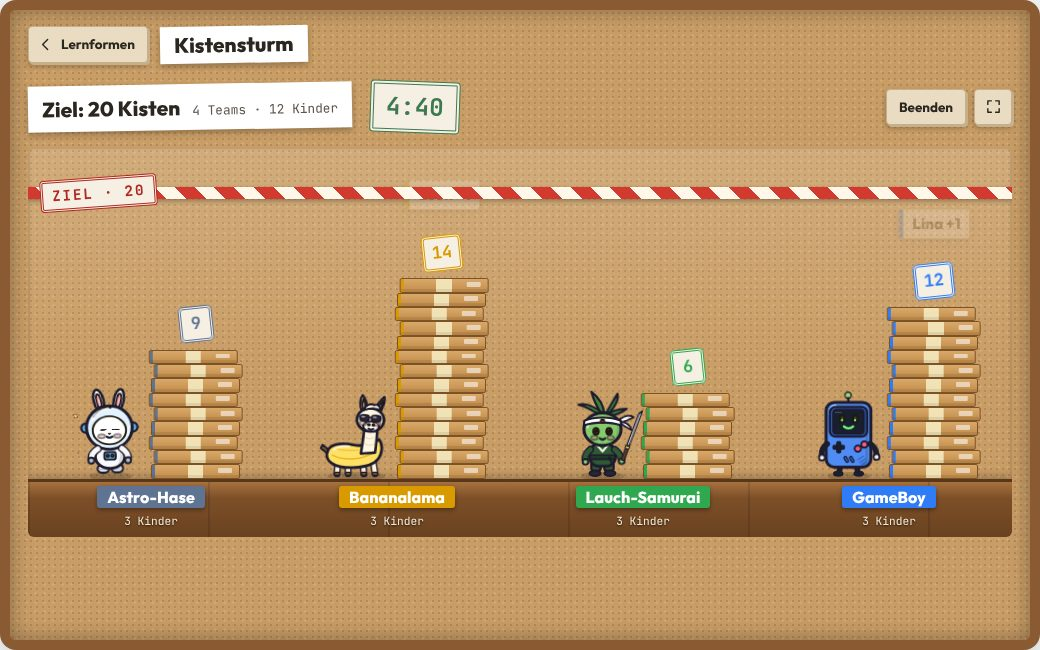
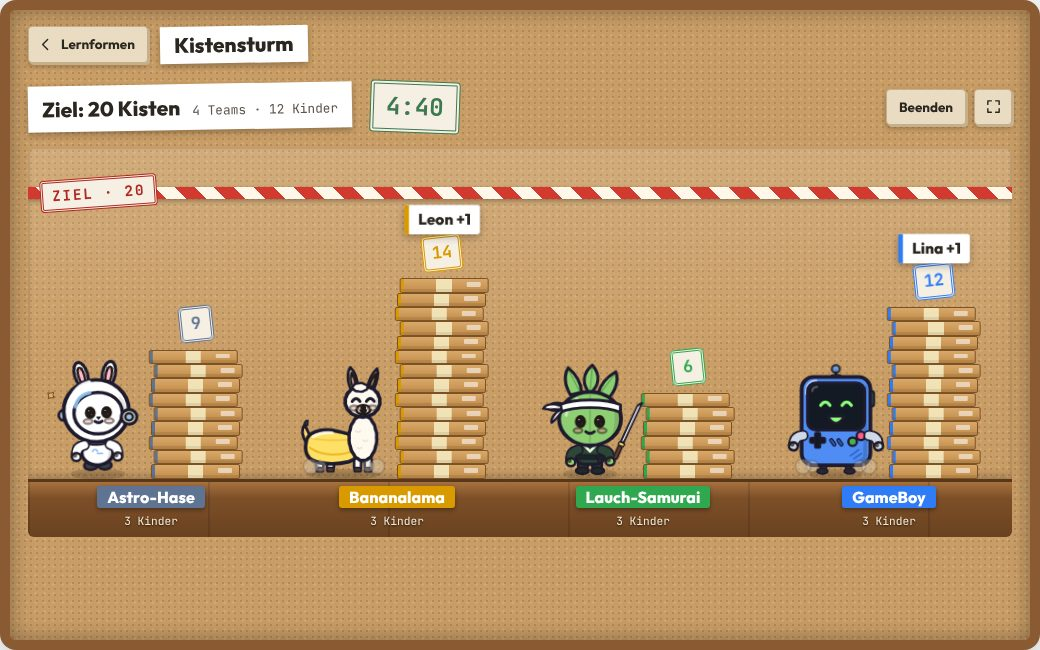
Kistensturm: Teamfiguren im Chibi-Stil überarbeitet
Nach Sönkes Rückmeldung: großer Kopf, kleiner Körper, kurze runde Arme
mit Fäustling für alle. Astro-Hase mit großem Glashelm, Lauch-Samurai
mit großem Blatt-Kopf und drei Blättern, GameBoy mit großem Bildschirm,
Bananalama flauschig ohne Brille (Hals und Brust als Wuschel).
Figuren am Beamer etwas größer, Bildschirmfoto neu, Stempel gedreht.

Claude-Session: https://claude.ai/code/session_01SoWN1mbEitzj7Fp3jj2Eav

diff --git a/MPSkills/tools/DefinitionsDerby/figuren.js b/MPSkills/tools/DefinitionsDerby/figuren.js
@@ -30,7 +30,7 @@
     { key: 'astro', name: 'Astro-Hase', col: '#5f7392', soft: '#e3e9f2',
       say: 'Hüpft durchs All – im Raumanzug, aber die Ohren passen nicht in den Helm.' },
     { key: 'lama', name: 'Bananalama', col: '#d99a00', soft: '#fff3c4',
-      say: 'Halb Lama, halb Banane, immer mit Sonnenbrille – nickt cool zu jeder Kiste.' },
+      say: 'Halb Lama, halb Banane, ganz flauschig – nickt gemütlich zu jeder Kiste.' },
     { key: 'lauch', name: 'Lauch-Samurai', col: '#2fa84f', soft: '#dcf5e2',
       say: 'Kämpft mit Stirnband und Schwert – klein, grün und sehr ehrenhaft.' },
     { key: 'gameboy', name: 'GameBoy', col: '#2f7cf6', soft: '#dbe9ff',
@@ -43,122 +43,142 @@
 
   const D = [];
 
-  /* ── 0 Astro-Hase · Raumanzug, Glashelm, Ohren oben raus ── */
-  const ear = (x, rot) => G('ear-' + (x < 50 ? 'l' : 'r'), [x, 24],
-    '<g transform="rotate(' + rot + ' ' + x + ' 24)">' + E(x, 12, 5.2, 12.5, 'var(--c1)', 2.6) + E(x, 13, 2.4, 8.5, 'var(--c4)', 0) + '</g>');
+  /* Gemeinsame Teile im Chibi-Stil (Sönke: „Kopf größer, Arme besser“):
+     großer Kopf, kleiner Körper, kurze runde Arme mit Fäustling. */
+  const mitt = (x, y, col, w) => E(x, y, 3.8, 3.4, col, w === undefined ? 2.2 : w) + hl(x - 1.2, y - 1.2, 0.9, 0.7);
+  const arm = (side, x0, y0, col, hand) => {
+    const s = side === 'l' ? -1 : 1;
+    const x1 = x0 + s * 6, y1 = y0 + 9;
+    return tube('M ' + x0 + ' ' + y0 + ' Q ' + (x0 + s * 7) + ' ' + (y0 + 2) + ' ' + x1 + ' ' + y1, col, 6.5) + mitt(x1, y1 + 1.5, hand || col);
+  };
+  /* Wuschelrand: Ellipse mit kleinen Bögen nach außen (Lama-Fell) */
+  function fluff(cx, cy, rx, ry, n, k) {
+    let d = '';
+    for (let i = 0; i <= n; i++) {
+      const a = i / n * Math.PI * 2, x = cx + rx * Math.cos(a), y = cy + ry * Math.sin(a);
+      if (!i) { d = 'M ' + x.toFixed(1) + ' ' + y.toFixed(1); continue; }
+      const m = (i - 0.5) / n * Math.PI * 2;
+      d += ' Q ' + (cx + rx * (1 + k) * Math.cos(m)).toFixed(1) + ' ' + (cy + ry * (1 + k) * Math.sin(m)).toFixed(1) + ' ' + x.toFixed(1) + ' ' + y.toFixed(1);
+    }
+    return d + ' Z';
+  }
+
+  /* ── 0 Astro-Hase · großer Glashelm als Kopf, Ohren oben raus ── */
+  const ear = (x, rot) => G('ear-' + (x < 50 ? 'l' : 'r'), [x, 20],
+    '<g transform="rotate(' + rot + ' ' + x + ' 20)">' + E(x, 9, 5.4, 11, 'var(--c1)', 2.6) + E(x, 10, 2.5, 7.5, 'var(--c4)', 0) + '</g>');
   D[0] = {
-    pal: [['#f8f9fc', '#b3bfd1', '#5aa9e6', '#ffb8cf', '#e3f2ff']],
-    o: { al: [37, 66], ar: [63, 66], ll: [43, 84], lr: [57, 84], head: [50, 64] },
-    legL: R(36.5, 83, 12, 8.5, 4, 'var(--c1)', 2.4) + L('M 38 88 L 47 88', 'var(--c2)', 1.6),
-    legR: R(51.5, 83, 12, 8.5, 4, 'var(--c1)', 2.4) + L('M 53 88 L 62 88', 'var(--c2)', 1.6),
-    body: E(50, 74, 15.5, 13, 'var(--c1)', 3)
-      + R(44, 69, 12, 8.5, 2.5, 'var(--c3)', 2) + C(47.5, 73.2, 1.3, '#fff', 0) + C(52.5, 73.2, 1.3, '#ffd84a', 0)
-      + shade('M 62 66 C 66 72 65 80 58 85 C 61 79 62 72 62 66 Z'),
-    head: ear(42, -12) + ear(58, 12)
-      + C(25.5, 42, 5, 'var(--c3)', 2.4) + C(74.5, 42, 5, 'var(--c3)', 2.4)
-      + C(50, 42, 24, 'var(--c5)', 3.2)
-      + E(50, 45, 17.5, 15.5, '#ffffff', 0)
-      + P('M 34 30 C 38 23 45 20 52 20', 'none', 0) + shine('M 33 33 C 36 26 42 22 49 21', 2.8, 0.8)
-      + shine('M 69 50 C 70 47 70.5 44 70.5 41', 2, 0.6)
+    pal: [['#ffffff', '#c3ccda', '#8fc3ef', '#ffb8cf', '#3a3f4b']],
+    o: { al: [39, 71], ar: [61, 71], ll: [44, 85], lr: [56, 85], head: [50, 66] },
+    legL: E(44, 88.5, 5.6, 3.6, 'var(--c5)', 2.2),
+    legR: E(56, 88.5, 5.6, 3.6, 'var(--c5)', 2.2),
+    body: E(50, 77, 13, 11, 'var(--c1)', 3)
+      + E(50, 67, 10, 3.2, 'var(--c2)', 2)
+      + L('M 46 76 C 47 74 49 74 50 76 M 50 78 L 54 78', 'var(--c3)', 1.6)
+      + shade('M 60 71 C 64 76 63 83 57 87 C 60 82 61 76 60 71 Z'),
+    head: ear(41, -14) + ear(59, 12)
+      + C(23.5, 44, 4.6, 'var(--c2)', 2.4)
+      + C(50, 41, 27, 'var(--c1)', 3.2)
+      + E(51.5, 43, 20, 18, '#ffffff', 2.8)
+      + L('M 33 37 C 34 30 39 26 45 25', 'var(--c3)', 3, 'opacity=".9"')
+      + shade('M 70 30 C 76 38 77 50 71 59 C 74 50 74 39 70 30 Z', 0.1)
+      + shine('M 29 30 C 32 22 38 17 45 15.5', 2.6, 0.9)
+      + C(77, 47, 6.4, 'var(--c1)', 2.6) + C(77, 47, 3.2, 'var(--c3)', 0)
       + '{FACE}',
-    face: { lx: 43.5, rx: 56.5, y: 44.5, r: 4, my: 52, mw: 2.8, bcol: '#ff8fb3',
-      extra: P('M 48.6 48.4 L 51.4 48.4 L 50 50 Z', '#ff8fb3', 1) },
-    back: C(50, 44, 9, 'var(--c2)', 0, 'opacity=".25"'),
-    armL: tube('M 37 66 Q 30 71 31 78', 'var(--c1)', 5.5) + C(31, 79, 3.2, 'var(--c2)', 2),
-    armR: tube('M 63 66 Q 70 71 69 78', 'var(--c1)', 5.5) + C(69, 79, 3.2, 'var(--c2)', 2),
-    fx: tw(14, 30, 3.4, '#ffd84a', 0) + tw(86, 58, 2.6, '#c084fc', 0.7) + tw(16, 70, 2.2, '#5aa9e6', 1.2),
+    face: { lx: 45, rx: 58.5, y: 42.5, r: 4.4, my: 50, mx: 51.7, mw: 3, bcol: '#ff9fbf',
+      extra: P('M 50.3 46.6 L 53.1 46.6 L 51.7 48.2 Z', '#ff8fb3', 1) },
+    back: C(50, 44, 10, 'var(--c2)', 0, 'opacity=".25"'),
+    armL: arm('l', 39, 71, 'var(--c1)'),
+    armR: arm('r', 61, 71, 'var(--c1)'),
+    fx: tw(12, 28, 3.4, '#ffb347', 0) + tw(90, 64, 2.6, '#c084fc', 0.7) + tw(13, 66, 2.2, '#5aa9e6', 1.2),
     vars: '--fx:var(--c3)'
   };
 
-  /* ── 1 Bananalama · Bananen-Körper, Lama-Kopf, Sonnenbrille ── */
+  /* ── 1 Bananalama · flauschiges Lama, die Banane als Körper ── */
   D[1] = {
-    pal: [['#ffe066', '#e0a800', '#fff6e2', '#7a5a2a', '#2a2433']],
-    o: { al: [40, 70], ar: [60, 70], ll: [36, 82], lr: [62, 82], head: [64, 48], zz: [84, 16] },
-    behind: G('tail', [18, 66], P('M 20 64 L 12 60 L 11 64 L 19 68 Z', 'var(--c4)', 2)),
-    legL: tube('M 30 79 L 29 90', 'var(--c3)', 4.5) + tube('M 41 81 L 41 90', 'var(--c3)', 4.5)
-      + R(26.5, 88.5, 5.5, 3.2, 1.2, 'var(--c4)', 1.4) + R(38.3, 88.5, 5.5, 3.2, 1.2, 'var(--c4)', 1.4),
-    legR: tube('M 57 80 L 58 90', 'var(--c3)', 4.5) + tube('M 68 77 L 70 90', 'var(--c3)', 4.5)
-      + R(55.2, 88.5, 5.5, 3.2, 1.2, 'var(--c4)', 1.4) + R(67.3, 88.5, 5.5, 3.2, 1.2, 'var(--c4)', 1.4),
-    body: P('M 19 66 C 21 58 33 56 47 59 C 58 61 67 58 74 53 C 79 59 78 72 69 78 C 57 85 33 85 24 79 C 19 76 17 71 19 66 Z', 'var(--c1)', 3)
-      + L('M 24 70 C 36 76 56 76 70 66', 'var(--c2)', 1.6, 'opacity=".7"')
-      + L('M 27 63 C 38 66 54 66 66 61', 'var(--c2)', 1.3, 'opacity=".5"')
-      + shine('M 26 64 C 30 61 36 60 42 60.5', 2.4, 0.7),
-    head: P('M 56 68 C 57 58 58 48 58 38 L 72 38 C 72 48 72 58 71 66 Z', 'var(--c3)', 2.8)
-      + L('M 60 50 C 62 52 66 52 68 50 M 60 57 C 62 59 66 59 69 57', '#e8dcc4', 1.4)
-      + G('ear-l', [57, 22], P('M 55 24 C 51 17 51 9 54 5 C 58 9 60 16 60 22 Z', 'var(--c3)', 2.4) + P('M 55.5 20 C 54 15 54 11 55 9 C 57 12 58 16 58 20 Z', '#ffc7d4', 0))
-      + G('ear-r', [71, 22], P('M 68 22 C 69 15 72 9 76 5 C 78 10 76 17 73 24 Z', 'var(--c3)', 2.4) + P('M 70 20 C 71 15 73 12 75 9 C 75.5 13 74 17 72 21 Z', '#ffc7d4', 0))
-      + E(64, 31, 14.5, 12.5, 'var(--c3)', 3)
-      + P('M 56 21 C 58 15 63 13 67 15 C 70 13 74 16 74 20 C 69 18 62 18 56 21 Z', 'var(--c3)', 2.2)
-      + shade('M 75 27 C 79 33 77 40 71 43 C 74 38 76 33 75 27 Z')
-      + E(65, 38, 8.5, 5.5, '#fffaf0', 2.2)
-      + E(62.6, 36.4, 1.1, .9, 'var(--c5)', 0) + E(67.4, 36.4, 1.1, .9, 'var(--c5)', 0)
+    pal: [['#ffe066', '#e3ab14', '#fffaf0', '#4a3a2a', '#efe4cf']],
+    o: { al: [60, 66], ar: [72, 66], ll: [32, 82], lr: [64, 82], head: [64, 66], zz: [86, 12] },
+    behind: G('tail', [17, 64], P('M 19 66 C 14 62 12 56 14 51 C 17 55 19 58 22 61 Z', 'var(--c1)', 2.4)
+      + P('M 14 51 C 13 49 14 47 16 47 L 16.5 51 Z', 'var(--c4)', 1.4)),
+    legL: R(26.5, 78, 6, 11, 2.8, 'var(--c3)', 2.2) + R(35.5, 79, 6, 10, 2.8, 'var(--c3)', 2.2)
+      + R(26.5, 87, 6, 3.6, 1.4, 'var(--c4)', 1.4) + R(35.5, 87, 6, 3.6, 1.4, 'var(--c4)', 1.4),
+    legR: R(58.5, 78, 6, 11, 2.8, 'var(--c3)', 2.2) + R(67.5, 78, 6, 11, 2.8, 'var(--c3)', 2.2)
+      + R(58.5, 87, 6, 3.6, 1.4, 'var(--c4)', 1.4) + R(67.5, 87, 6, 3.6, 1.4, 'var(--c4)', 1.4),
+    body: P('M 18 66 C 18 57 30 53 44 56 C 52 58 58 59 62 62 C 66 70 63 79 54 82 C 42 85 26 84 21 79 C 18 76 17 71 18 66 Z', 'var(--c1)', 3)
+      + L('M 21 70 C 31 77 47 78 59 72', 'var(--c2)', 1.8, 'opacity=".7"')
+      + L('M 23 62 C 32 64 44 64 55 63', 'var(--c2)', 1.4, 'opacity=".45"')
+      + shine('M 24 61 C 28 58 34 57 40 57.5', 2.6, 0.75),
+    head: P(fluff(66, 62, 11.5, 19, 16, 0.07), 'var(--c3)', 2.8)
+      + L('M 60 56 Q 62 58 64 56 M 66 64 Q 68 66 70 64 M 61 70 Q 63 72 65 70', 'var(--c5)', 1.3)
+      + G('ear-l', [59, 20], P('M 57 22 C 53 15 53 6 56 2 C 60 6 62 13 62 20 Z', 'var(--c3)', 2.4) + P('M 57.4 18 C 56 13 56 9 57 6.5 C 59 10 60 14 60 18 Z', '#ffc7d4', 0))
+      + G('ear-r', [72, 20], P('M 70 20 C 71 13 74 7 78 3 C 80 8 78 15 75 22 Z', 'var(--c3)', 2.4) + P('M 72 18 C 73 13 75 10 77 7.5 C 77.5 11 76 15 74 19 Z', '#ffc7d4', 0))
+      + P(fluff(66, 31, 14.5, 13, 18, 0.06), 'var(--c3)', 3)
+      + P(fluff(64, 19, 6, 3.5, 7, 0.25), 'var(--c3)', 2)
+      + shade('M 78 26 C 82 32 80 40 73 44 C 77 38 79 32 78 26 Z', 0.1)
+      + E(66.5, 38, 6, 4, '#fff4dc', 0)
       + '{FACE}',
-    headTop: R(52.5, 26, 10, 6.6, 2.8, 'var(--c5)', 1.6) + R(65, 26, 10, 6.6, 2.8, 'var(--c5)', 1.6)
-      + L('M 62.5 28.5 L 65 28.5 M 52.5 28 L 50.5 27', 'var(--c5)', 1.8)
-      + L('M 54.5 28 L 57.5 28', '#ffffff', 1.2, 'opacity=".75"') + L('M 67 28 L 70 28', '#ffffff', 1.2, 'opacity=".75"'),
-    face: { lx: 57.5, rx: 70, y: 29.3, r: 2.8, my: 40.6, mx: 65, mw: 2.6, bcol: '#ff9fb0' },
-    back: E(64, 29, 6, 4, 'var(--c2)', 0, 'opacity=".3"'),
+    face: { lx: 60.5, rx: 72.5, y: 30, r: 3.6, my: 39.3, mx: 66.5, mw: 2.2, bcol: '#ffb0c2',
+      extra: E(66.5, 36.4, 1.5, 1.05, 'var(--c4)', 0) },
+    back: E(66, 31, 6, 4, 'var(--c5)', 0, 'opacity=".6"'),
     armL: '', armR: '',
     shadow: 30,
     vars: '--fx:var(--c2)'
   };
 
-  /* ── 2 Lauch-Samurai · Lauch-Kopf mit Blättern, Stirnband, Schwert ── */
+  /* ── 2 Lauch-Samurai · großer Blatt-Kopf, drei Blätter, Stirnband, Schwert ── */
+  const leaf = (d, vein) => P(d, 'var(--c1)', 2.6) + L(vein, 'var(--c2)', 1.2, 'opacity=".55"');
   D[2] = {
-    pal: [['#86c96e', '#3f8b3c', '#ffffff', '#2f5a35', '#d5dde6', '#6b3f22']],
-    o: { al: [37, 64], ar: [63, 64], ll: [43, 82], lr: [57, 82], head: [50, 60] },
-    legL: R(38, 78, 10, 9, 3, 'var(--c4)', 2.4) + E(42, 89.5, 6, 3, '#2a2433', 2),
-    legR: R(52, 78, 10, 9, 3, 'var(--c4)', 2.4) + E(58, 89.5, 6, 3, '#2a2433', 2),
-    body: R(36, 58, 28, 24, 10, 'var(--c4)', 3)
-      + P('M 44 58 L 50 66 L 56 58', 'none', 0) + L('M 44 59 L 50 66 L 56 59', '#e9f5d8', 2.4)
-      + R(36.5, 70, 27, 4.5, 1.5, '#1f3b24', 1.6) + P('M 56 72 L 60 79 L 58 72 Z', '#1f3b24', 1.2),
-    head: G('leaves', [50, 26],
-        P('M 50 28 C 44 18 40 10 38 2 C 46 8 51 16 52 26 Z', 'var(--c2)', 2.4)
-      + P('M 48 28 C 40 22 32 18 24 16 C 32 14 42 18 50 25 Z', 'var(--c2)', 2.4)
-      + P('M 52 28 C 58 18 62 10 66 4 C 68 12 62 20 54 28 Z', 'var(--c2)', 2.4)
-      + P('M 52 28 C 60 22 68 20 76 20 C 70 25 60 28 53 30 Z', 'var(--c2)', 2.4)
-      + L('M 44 13 L 50 25 M 60 12 L 53 25', '#2a6a2c', 1, 'opacity=".5"'))
-      + E(50, 42, 20, 17.5, 'var(--c1)', 3.2)
-      + shade('M 66 34 C 72 42 70 52 61 58 C 66 51 68 43 66 34 Z')
-      + L('M 41 52 L 41 57 M 50 53 L 50 58 M 59 52 L 59 57', '#5aa04a', 1.2, 'opacity=".5"')
-      + shine('M 34 40 C 35 35 38 31 42 29.5', 2.4, 0.55)
-      + G('band', [70, 33], P('M 69 31 C 76 28 82 29 84 32 C 80 33 76 34 70 35 Z', 'var(--c3)', 2)
-        + P('M 69 34 C 75 36 79 40 79 45 C 75 42 72 39 69 36 Z', 'var(--c3)', 2))
-      + P('M 30.5 33 C 42 28.5 58 28.5 69.5 33 L 70 38 C 58 34 42 34 30 38 Z', 'var(--c3)', 2.2)
-      + C(50, 33.5, 1.8, '#e5484d', 0)
+    pal: [['#8fcf74', '#3f8b3c', '#ffffff', '#2c4637', '#d5dde6', '#6b3f22']],
+    o: { al: [40, 72], ar: [60, 72], ll: [44, 85], lr: [56, 85], head: [50, 68] },
+    legL: R(40, 81, 8, 7, 2.5, 'var(--c4)', 2.2) + E(43.5, 89.6, 5.4, 2.8, '#1f2a24', 2),
+    legR: R(52, 81, 8, 7, 2.5, 'var(--c4)', 2.2) + E(56.5, 89.6, 5.4, 2.8, '#1f2a24', 2),
+    body: R(38, 67, 24, 17, 7, 'var(--c4)', 3)
+      + L('M 45 67.5 L 50 73 L 55 67.5', '#e9f5d8', 2.2)
+      + R(38.5, 76, 23, 3.6, 1.4, '#1a2a20', 1.4) + P('M 55 78 L 58 84 L 56.5 78 Z', '#1a2a20', 1),
+    head: G('leaves',  [50, 22],
+        leaf('M 34 26 C 28 18 27 9 30 3 C 37 8 42 15 43 23 Z', 'M 31 6 C 35 12 38 17 41 22')
+      + leaf('M 66 26 C 72 18 73 9 70 3 C 63 8 58 15 57 23 Z', 'M 69 6 C 65 12 62 17 59 22')
+      + leaf('M 50 24 C 43 16 42 7 50 -1 C 58 7 57 16 50 24 Z', 'M 50 1 L 50 22'))
+      + leaf('M 29 33 C 22 30 17 32 15 36 C 20 39 26 38 29 36 Z', 'M 17 36 L 28 34.5')
+      + E(50, 45, 26, 23, 'var(--c1)', 3.2)
+      + L('M 50 24 C 50 36 50 52 50 66', 'var(--c2)', 1.4, 'opacity=".35"')
+      + shade('M 70 33 C 78 42 77 56 66 64 C 72 56 73 44 70 33 Z')
+      + shine('M 30 42 C 31 36 34 31 39 28', 2.6, 0.55)
+      + P('M 24.5 33 C 37 27.5 63 27.5 75.5 33 L 75.5 39.5 C 63 34 37 34 24.5 39.5 Z', 'var(--c3)', 2.4)
+      + G('band', [26, 36], P('M 26 34 C 19 30 13 31 11 34 C 16 36 21 36 26 37 Z', 'var(--c3)', 2)
+        + P('M 26 37 C 20 39 16 43 16 47 C 20 45 23 42 26 39 Z', 'var(--c3)', 2))
       + '{FACE}',
-    face: { lx: 43, rx: 57, y: 44.5, r: 3.8, my: 52, mw: 2.8 },
-    back: L('M 42 44 L 58 44', '#5aa04a', 1.4, 'opacity=".5"'),
-    armL: tube('M 37 64 Q 30 69 31 76', 'var(--c4)', 5) + C(31, 77, 3, 'var(--c1)', 2),
-    armR: tube('M 63 64 Q 69 69 70 76', 'var(--c4)', 5) + C(70, 77, 3, 'var(--c1)', 2),
-    front: '<g class="katana" transform="rotate(20 71 78)">' + R(68.6, 59, 4.4, 3.6, 1, '#ffd84a', 1.2)
-        + P('M 69.6 59 L 70.2 22 L 72.6 18.5 L 72 59 Z', 'var(--c5)', 1.6) + L('M 71.1 56 L 71.4 23', '#ffffff', 0.8, 'opacity=".8"')
-        + R(69.2, 62.4, 3.2, 13, 1.2, 'var(--c6)', 1.4) + '</g>',
+    face: { lx: 42, rx: 58, y: 47.5, r: 4.6, my: 56, mw: 3.6 },
+    back: L('M 38 47 L 62 47', 'var(--c2)', 1.4, 'opacity=".4"'),
+    armL: arm('l', 40, 72, 'var(--c4)', 'var(--c1)'),
+    armR: arm('r', 60, 72, 'var(--c4)', 'var(--c1)'),
+    front: '<g class="katana" transform="rotate(24 70 82)">' + R(67.6, 64, 4.8, 3.6, 1, '#ffd84a', 1.2)
+        + P('M 68.6 64 L 69.2 30 L 71.8 26.5 L 71.2 64 Z', 'var(--c5)', 1.6) + L('M 70.1 61 L 70.4 31', '#ffffff', 0.8, 'opacity=".8"')
+        + R(68.2, 67.4, 3.4, 12, 1.2, 'var(--c6)', 1.4) + '</g>',
     vars: '--fx:var(--c1)'
   };
 
-  /* ── 3 GameBoy · Spielkonsole mit Bildschirm-Gesicht ── */
+  /* ── 3 GameBoy · große Konsole, großer Bildschirm mit Gesicht ── */
   D[3] = {
-    pal: [['#4f8df5', '#2a5bb8', '#ffd84a', '#7dff8a', '#ff5c8a', '#18202e']],
-    o: { al: [27, 58], ar: [73, 58], ll: [41, 84], lr: [59, 84], head: [50, 84] },
-    legL: tube('M 41 82 L 40 89', 'var(--c6)', 3.2) + E(39, 90, 5, 2.6, 'var(--c6)', 1.4),
-    legR: tube('M 59 82 L 60 89', 'var(--c6)', 3.2) + E(61, 90, 5, 2.6, 'var(--c6)', 1.4),
-    head: G('antenna', [50, 14], L('M 50 15 L 50 7', INK, 2.4) + C(50, 5.5, 3.4, 'var(--c4)', 2, 'class="glow"'))
-      + R(26, 13, 48, 70, 9, 'var(--c1)', 3.2)
-      + shade('M 70 20 L 70 74 C 70 78 68 80 64 80 L 68 77 C 69 76 69 74 69 72 Z', 0.18)
-      + shine('M 30 26 C 30 20 32 17 36 16.5', 2.4, 0.6)
-      + R(30, 18, 40, 32, 6, 'var(--c2)', 2.4)
-      + R(33.5, 21, 33, 26, 3.5, 'var(--c6)', 2)
-      + L('M 36 24 L 42 24', '#ffffff', 1.4, 'opacity=".2"')
-      + R(33.5, 59.5, 12, 4, 1.2, 'var(--c6)', 1.4) + R(37.5, 55.5, 4, 12, 1.2, 'var(--c6)', 1.4)
-      + C(60, 63, 3.4, 'var(--c5)', 2) + C(67, 58.5, 3.4, 'var(--c5)', 2)
-      + R(46, 71, 3, 7, 1.5, 'var(--c2)', 1.2, 'transform="rotate(-30 47.5 74.5)"') + R(52, 71, 3, 7, 1.5, 'var(--c2)', 1.2, 'transform="rotate(-30 53.5 74.5)"')
-      + L('M 60 75 L 66 71 M 62 78 L 68 74 M 64 81 L 69 77', 'var(--c2)', 1.4, 'opacity=".8"')
+    pal: [['#4f8df5', '#2a5bb8', '#ffd84a', '#8dff7a', '#ff5c8a', '#141a24', '#cfd9e8']],
+    o: { al: [22, 60], ar: [78, 60], ll: [40, 84], lr: [60, 84], head: [50, 84] },
+    legL: tube('M 40 83 L 39 89', '#4a3a2a', 3.6) + E(38.5, 90, 4.6, 2.4, '#2a2433', 1.4),
+    legR: tube('M 60 83 L 61 89', '#4a3a2a', 3.6) + E(61.5, 90, 4.6, 2.4, '#2a2433', 1.4),
+    head: G('antenna', [50, 9], L('M 50 10 L 50 4', INK, 2.4) + C(50, 3.2, 3.2, '#5aa9ff', 2, 'class="glow"') + R(46, 8.5, 8, 3, 1.2, '#4caf50', 1.4))
+      + R(77, 22, 5, 13, 2, '#4caf50', 2)
+      + R(21, 10, 58, 75, 10, 'var(--c1)', 3.2)
+      + shade('M 75 18 L 75 76 C 75 80 72 83 68 83 L 73 79 C 74 78 74 76 74 74 Z', 0.18)
+      + shine('M 25 24 C 25 17 28 14 33 13.5', 2.6, 0.6)
+      + R(26, 15, 48, 40, 7, 'var(--c6)', 2.6)
+      + shine('M 30 22 C 30 19.5 31 18.5 34 18.3', 1.8, 0.25)
+      + R(28, 61.5, 13, 4.6, 1.4, 'var(--c6)', 1.4) + R(32.2, 57.3, 4.6, 13, 1.4, 'var(--c6)', 1.4)
+      + C(64, 65, 3.6, '#4caf50', 2) + C(71, 60, 3.6, 'var(--c5)', 2)
+      + R(46, 62, 2.6, 7, 1.3, 'var(--c2)', 1, 'transform="rotate(-35 47.3 65.5)"') + R(52, 62, 2.6, 7, 1.3, 'var(--c2)', 1, 'transform="rotate(-35 53.3 65.5)"')
+      + L('M 62 77 L 69 72 M 65 79.5 L 71.5 75', 'var(--c2)', 1.4, 'opacity=".8"')
       + '{FACE}',
-    face: { type: 'screen', col: 'var(--c4)', lx: 43, rx: 57, y: 31, r: 3.4, my: 39, mw: 5, blush: false },
-    back: R(32, 22, 36, 50, 5, 'var(--c2)', 2) + C(50, 46, 7, 'var(--c1)', 1.6),
-    armL: tube('M 27 58 Q 20 63 21 71', 'var(--c6)', 3.2) + C(21, 72.5, 3.2, '#f1f3f7', 2),
-    armR: tube('M 73 58 Q 80 63 79 71', 'var(--c6)', 3.2) + C(79, 72.5, 3.2, '#f1f3f7', 2),
+    face: { type: 'screen', col: 'var(--c4)', lx: 41, rx: 59, y: 33, r: 4.4, my: 44, mw: 7, blush: false },
+    back: R(30, 20, 40, 52, 5, 'var(--c2)', 2) + C(50, 46, 8, 'var(--c1)', 1.6),
+    armL: arm('l', 22, 60, 'var(--c7)'),
+    armR: arm('r', 78, 60, 'var(--c7)'),
     vars: '--fx:var(--c4)'
   };
 
@@ -183,8 +203,8 @@
       + L('M 38 53 L 42 53', '#ffffff', 1.2, 'opacity=".7"') + L('M 53.5 53 L 57.5 53', '#ffffff', 1.2, 'opacity=".7"'),
     face: { lx: 42.2, rx: 57.8, y: 55.3, r: 3.6, my: 67, mw: 4.5, bcol: '#ff7a8a' },
     back: L('M 40 60 L 60 60', 'var(--c1)', 2, 'opacity=".4"'),
-    armL: tube('M 31 62 Q 24 66 25 73', INK, 2.6) + C(25, 74.5, 3, '#ffffff', 2),
-    armR: tube('M 69 62 Q 76 66 75 73', INK, 2.6) + C(75, 74.5, 3, '#ffffff', 2),
+    armL: tube('M 31 62 Q 25 65 25 71', INK, 2.8) + mitt(24.8, 73.5, '#ffffff'),
+    armR: tube('M 69 62 Q 75 65 75 71', INK, 2.8) + mitt(75.2, 73.5, '#ffffff'),
     fx: G('fly', null, puff(17, 26, 3.2) + puff(84, 18, 2.8)),
     vars: '--fx:var(--c4)'
   };
@@ -204,8 +224,8 @@
       + '{FACE}',
     face: { lx: 43, rx: 57, y: 52, r: 4, my: 60, mw: 3, bcol: '#ff9fc6' },
     back: E(50, 58, 10, 8, 'var(--c6)', 0, 'opacity=".35"'),
-    armL: P('M 28 60 C 21 62 19 68 22 71 C 25 69 27 66 29 66 Z', 'var(--c1)', 2.4),
-    armR: P(mirror('M 28 60 C 21 62 19 68 22 71 C 25 69 27 66 29 66 Z'), 'var(--c1)', 2.4),
+    armL: P('M 28 59 C 20 60 17 67 21 71 C 24 73 27 69 29 66 Z', 'var(--c1)', 2.4),
+    armR: P(mirror('M 28 59 C 20 60 17 67 21 71 C 24 73 27 69 29 66 Z'), 'var(--c1)', 2.4),
     front: G('staff', [80, 70], L('M 78 80 L 86 38', INK, 4.6) + L('M 78 80 L 86 38', 'var(--c5)', 2.6)
         + C(86.5, 35.5, 5.4, 'var(--c4)', 2.2, 'class="glow"') + hl(85, 34, 1.6, 0.9)),
     fx: tw(16, 40, 3, '#ffd84a', 0) + tw(88, 58, 2.4, '#c084fc', 0.6) + tw(20, 74, 2, '#5aa9ff', 1.1),

diff --git a/MPSkills/tools/DefinitionsDerby/tool.js b/MPSkills/tools/DefinitionsDerby/tool.js
@@ -74,7 +74,7 @@
 (function () {
   'use strict';
 
-  const V = '20261029l';
+  const V = '20261029m';
   const BASE = 'tools/DefinitionsDerby/';
   const MAX_SHARED = 20;          // data.shared muss in 8 KB passen
   const LEVELS = ['neu', 'unsicher', 'teilweise', 'sicher'];
@@ -3977,7 +3977,7 @@
     const bh = Math.max(3, Math.min(42, (h - 46) / st.v.goal));
     sc.style.setProperty('--bh', bh.toFixed(2) + 'px');
     sc.style.setProperty('--bw', Math.round(Math.min(130, w * 0.46, bh * 3.4 + 40)) + 'px');
-    sc.style.setProperty('--fw', Math.round(Math.max(56, Math.min(130, w * 0.46, h * 0.28))) + 'px');
+    sc.style.setProperty('--fw', Math.round(Math.max(64, Math.min(150, w * 0.5, h * 0.36))) + 'px');
     sc.classList.toggle('is-thin', bh < 12);
     const gl = sc.querySelector('#ddStGoalLine');
     if (gl) gl.style.bottom = 'calc(var(--floor) + ' + (st.v.goal * bh).toFixed(1) + 'px)';

diff --git a/MPSkills/tools/DefinitionsDerby/figuren.css b/MPSkills/tools/DefinitionsDerby/figuren.css
@@ -62,7 +62,7 @@
 .ds-fig--lama .tail { animation: ds-wag 1.4s ease-in-out infinite; }
 .ds-lift.ds-fig--lama .head-node { animation: ds-lama-lift .9s cubic-bezier(.3, .7, .3, 1) both; }
 @keyframes ds-nod { 50% { transform: rotate(4deg) translateY(1px); } }
-@keyframes ds-lama-lift { 22% { transform: translateY(3px); } 48%, 74% { transform: translateY(-5px) rotate(-6deg); } }
+@keyframes ds-lama-lift { 22% { transform: translateY(2px); } 48%, 74% { transform: translateY(-2px) rotate(-5deg); } }
 
 /* Lauch-Samurai: Blätter wehen, das Stirnband flattert, das Schwert blitzt. */
 .ds-fig--lauch .leaves { animation: ds-leaf 2.6s ease-in-out infinite; }

diff --git a/MPSkills/lib/preview.js b/MPSkills/lib/preview.js
@@ -415,7 +415,7 @@
     if (window.MPTool) return Promise.resolve();
     return new Promise((resolve, reject) => {
       const s = document.createElement('script');
-      s.src = 'lib/tool.js?v=20261029l';
+      s.src = 'lib/tool.js?v=20261029m';
       s.onload  = () => window.MPTool ? resolve() : reject(new Error('MPTool fehlt'));
       s.onerror = () => reject(new Error('lib/tool.js nicht gefunden'));
       document.head.appendChild(s);

diff --git a/MPSkills/lib/tool.js b/MPSkills/lib/tool.js
@@ -105,7 +105,7 @@
        neue Reliefkarte von Wordisland unter — der Umbau war fertig,
        auf dem Bildschirm stand die alte Karte, und es sah aus, als
        wäre nichts geschehen. */
-    const v = '?v=20261029l';
+    const v = '?v=20261029m';
 
     loading[id] = new Promise((resolve, reject) => {
       // Das Stylesheet wird nicht abgewartet: ein Werkzeug, das auf

diff --git a/MPSkills/j.html b/MPSkills/j.html
@@ -77,7 +77,7 @@
      dazuholen" raus ist. Die Tür gehört der Tafel. -->
 <script src="lib/room.js?v=20261024b"></script>
 <script src="lib/icons.js?v=20261023a"></script>
-<script src="lib/tool.js?v=20261029l"></script>
+<script src="lib/tool.js?v=20261029m"></script>
 <script src="door-login.js?v=20261017b"></script>
 <script src="j.js?v=20261024b"></script>
 </body>

diff --git a/MPSkills/lehrer.html b/MPSkills/lehrer.html
@@ -55,7 +55,7 @@
 <script src="lib/qr.js?v=20260817"></script>
 <script src="lib/room.js?v=20261024b"></script>
 <script src="lib/icons.js?v=20261023a"></script>
-<script src="lib/tool.js?v=20261029l"></script>
+<script src="lib/tool.js?v=20261029m"></script>
 <script src="tools.js?v=20261029a"></script>
 <script src="lehrer.js?v=20261024"></script>
 </body>

diff --git a/MPSkills/derby.html b/MPSkills/derby.html
@@ -44,7 +44,7 @@
 <script src="../avatars.js?v=20261028a"></script>
 <script src="lib/userbar.js?v=20261021"></script>
 <script src="lib/profilemodal.js?v=20261024"></script>
-<script src="lib/tool.js?v=20261029l"></script>
+<script src="lib/tool.js?v=20261029m"></script>
 <script src="derby.js?v=20261026b"></script>
 </body>
 </html>

diff --git a/MPSkills/insel.html b/MPSkills/insel.html
@@ -56,7 +56,7 @@
 <script src="../avatars.js?v=20261028a"></script>
 <script src="lib/userbar.js?v=20261020"></script>
 <script src="lib/room.js?v=20261024b"></script>
-<script src="lib/tool.js?v=20261029l"></script>
+<script src="lib/tool.js?v=20261029m"></script>
 <script src="insel.js?v=20260923"></script>
 </body>
 </html>

diff --git a/MPSkills/tools/DefinitionsDerby/CLAUDE.md b/MPSkills/tools/DefinitionsDerby/CLAUDE.md
@@ -68,7 +68,7 @@ Erste Lernform **„Zusammen im Netz“** (`storm`, `GAMES` mit `net: true`, nur
 - **Klasse holen**: Öffnet die Lehrkraft Kistensturm, schreibt sie `skill_room_state.data.storm = {live: true, t}` und teilt die Lernform (`games` += `storm`); jedes Tablet zeigt oben den Knopf **„Kistensturm! Mitmachen“** (`stBanner`, `.dd-stbanner`), solange sie drin ist (verlässt sie es, `live: false`).
 - **Server** (Tabellen `dd_storm_boards/teams/players/events`, alles am Raum mit on delete cascade): Lehrkraft `dd_storm_room_get/setup/start/stop/reset(p_code, …)`, Tablet `dd_storm_view(p_token, p_since)` und `dd_storm_answer(p_token, p_ok, p_since)` — jede Antwort liefert die ganze Ansicht zurück. Phasen `lobby → countdown (4 s) → running → ended`, lazy weitergeschaltet (`dd_storm_advance`, kein Cron). **Ob eine Antwort stimmt, prüft das Tablet** (insel.js, nachsichtig); der Server zählt höchstens eine richtige je 1,2 s und Gerät (`too_fast`). **Fair bei ungleichen Teams**: eine Antwort bringt `größtes Team / eigenes Team` Anteile (`progress`), Höhe = ganzer Teil. Für Animationen eine laufende Nummer `seq` und kurze Ereignisliste (`box` mit Name und Höhe, `start`, `win`, `time`, `stop`, `reset`; die letzten 200 bleiben); Geräte fragen mit `p_since` nur Neues. In der Lobby kennt das Tablet über `me.id` sein Vorschau-Team.
 - **Aufgaben**: dieselben fünf wie auf der Insel (`DDInsel.makeTask`), die Stufe kommt aus der **Höhe des eigenen Turms** (`stLevel` = ⌊Höhe/Ziel · 5⌋: Begriff wählen · Definition wählen · Bausteine · Begriff tippen · Lückentext) — wer hinten liegt, hat leichtere Aufgaben. Reihenfolge `DDInsel.roundCards`, Falsches kommt per `requeue` wieder. Richtig → „Eine Kiste für Team X“, nach 1 s die nächste; falsch → Lösung, „Weiter“ erst nach 1,6 s (`ST_LOCK_MS`, gegen Raten). **Schreibt keinen Lernstand** (wie Memory/Duell). Das Aufgabenblatt ist dasselbe wie auf der Insel (`paintTask` & Co. fragen `curTask()`; das Ergebnis geht über `taskResult` an `stResult` bzw. `islResult`), hier im Fluss statt als Fenster (`.dd-task--inline`, Kopf `stTaskHead`).
-- **Die sechs Figuren** (`figuren.js` + `figuren.css`, Sönke: „neue Wesen ähnlich Knowledge Stack, sechs verschiedene, cool/süß, jede mit eigenem Charakter … die Figur hebt den Stapel hoch und darunter erscheint eine neue Kiste“): gebaut mit dem Baukasten von Knowledge Stack (`KSCreatures.buildDef` + `kit`, gleiches Skelett/Gesicht/Bewegungen; `tool.js` lädt `tools/KnowledgeStack/creatures.js/.css` nach). Team = Nummer in `DDFiguren.LIST`, **nicht umsortieren**. Zweite Fassung nach Sönkes Vorlagebildern (29.10.2026, „die Teamfiguren mag ich noch nicht“): 0 **Astro-Hase** (weiß im Raumanzug mit Glashelm, Ohren oben raus; Teamfarbe Schiefergrau, weil Weiß auf Papier nicht lesbar ist; schwebt, Ohren wackeln) · 1 **Bananalama** (gelb, Bananen-Körper mit Lama-Kopf und Sonnenbrille, nickt lässig; hat keine Arme, beim Heben reckt es den Kopf) · 2 **Lauch-Samurai** (grün, Lauch-Kopf mit Blättern, Stirnband, Schwert in `front` neben dem Körper, damit es beim Heben nicht durchs Gesicht fährt) · 3 **GameBoy** (blau, Konsole mit Bildschirm-Gesicht, Steuerkreuz, Antenne) · 4 **Popcorn** (rot-weiß gestreifte Tüte mit 3D-Brille, oben poppt es) · 5 **Magic Ghost** (lila, schwebendes Gespenst mit Zauberhut und Stab in `front`). Brillen liegen in `headTop` über den Augen. `DDFiguren.svg(team, action, px)` mit `idle` · `lift` (`.ds-lift`: in die Knie, Arme nach oben außen, strecken, 0,9 s) · `cheer` · `sad` · `wave` (aus creatures.css). Ansehen: `showroom-kistensturm.html` (Knöpfe je Figur).
+- **Die sechs Figuren** (`figuren.js` + `figuren.css`, Sönke: „neue Wesen ähnlich Knowledge Stack, sechs verschiedene, cool/süß, jede mit eigenem Charakter … die Figur hebt den Stapel hoch und darunter erscheint eine neue Kiste“): gebaut mit dem Baukasten von Knowledge Stack (`KSCreatures.buildDef` + `kit`, gleiches Skelett/Gesicht/Bewegungen; `tool.js` lädt `tools/KnowledgeStack/creatures.js/.css` nach). Team = Nummer in `DDFiguren.LIST`, **nicht umsortieren**. Fassung nach Sönkes Vorlagebildern (29.10.2026, „die Teamfiguren mag ich noch nicht“, dann „Kopf größer, Arme besser, das Bananalama sieht fies aus“): Chibi-Stil – großer Kopf, kleiner Körper, kurze runde Arme mit Fäustling (`arm`/`mitt`): 0 **Astro-Hase** (weiß im Raumanzug mit Glashelm, Ohren oben raus; Teamfarbe Schiefergrau, weil Weiß auf Papier nicht lesbar ist; schwebt, Ohren wackeln) · 1 **Bananalama** (gelb, flauschiges Lama – Hals und Brust als Wuschel `fluff` –, die Banane als Körper, ohne Brille, nickt gemütlich; hat keine Arme, beim Heben reckt es den Kopf) · 2 **Lauch-Samurai** (grün, Lauch-Kopf mit Blättern, Stirnband, Schwert in `front` neben dem Körper, damit es beim Heben nicht durchs Gesicht fährt) · 3 **GameBoy** (blau, Konsole mit Bildschirm-Gesicht, Steuerkreuz, Antenne) · 4 **Popcorn** (rot-weiß gestreifte Tüte mit 3D-Brille, oben poppt es) · 5 **Magic Ghost** (lila, schwebendes Gespenst mit Zauberhut und Stab in `front`). Die 3D-Brille vom Popcorn liegt in `headTop` über den Augen. `DDFiguren.svg(team, action, px)` mit `idle` · `lift` (`.ds-lift`: in die Knie, Arme nach oben außen, strecken, 0,9 s) · `cheer` · `sad` · `wave` (aus creatures.css). Ansehen: `showroom-kistensturm.html` (Knöpfe je Figur).
 - **Beamer** (`stSceneBeam`): Holzleiste unten mit Teamschild, je Team ein Turm aus **Pappkartons mit Klebeband** (`.dd-st__box`, Streifen in Teamfarbe), die Figur steht links daneben; neue Kiste = Figur hebt (`stLift`) und die Kiste rutscht unten hinein (`.is-new`, `column-reverse`, erstes Kind = unten), Kiste für Kiste je Team nachgezogen (`stSync`/`stStep`, `ST_STEP_MS`; weit zurück → springen bis auf 3). Kistenhöhe so, dass das Ziel genau unter das **Absperrband** passt (`stLayout`, `--bh`; unter 12 px ohne Klebeband-Details `is-thin`). Höhe als Stempel über dem Turm, darüber „Name +1“-Zettel. Countdown „Bereit? 3-2-1 Los!“ als großer Stempel, Uhr oben (rot in den letzten 30 s), Vollbild-Knopf. Ende: Siegerkarte (Figur jubelt, Platzierung, „Nochmal“), am Turm jubelt der Sieger, die anderen sind traurig.
 - **Tablet** (`stSceneDev`): Papierkarte mit allen Teams als Balken (eigenes Team hervorgehoben, „ihr“, große Figur, die mithebt; „+1 Name“ nur fürs eigene Team), darunter die Stufe der Aufgaben, dann das Aufgabenblatt. Lobby: „Du bist in Team X“ mit winkender Figur und den Namen; Ende: eigene Figur jubelt/traurig, Platzierung, „Du hast n Kisten beigetragen“.
 - **Bildschirmfoto** `img/spiel-kistensturm.jpg`, Mini-Bild `MINI.storm` (vier Türme, Absperrband).
